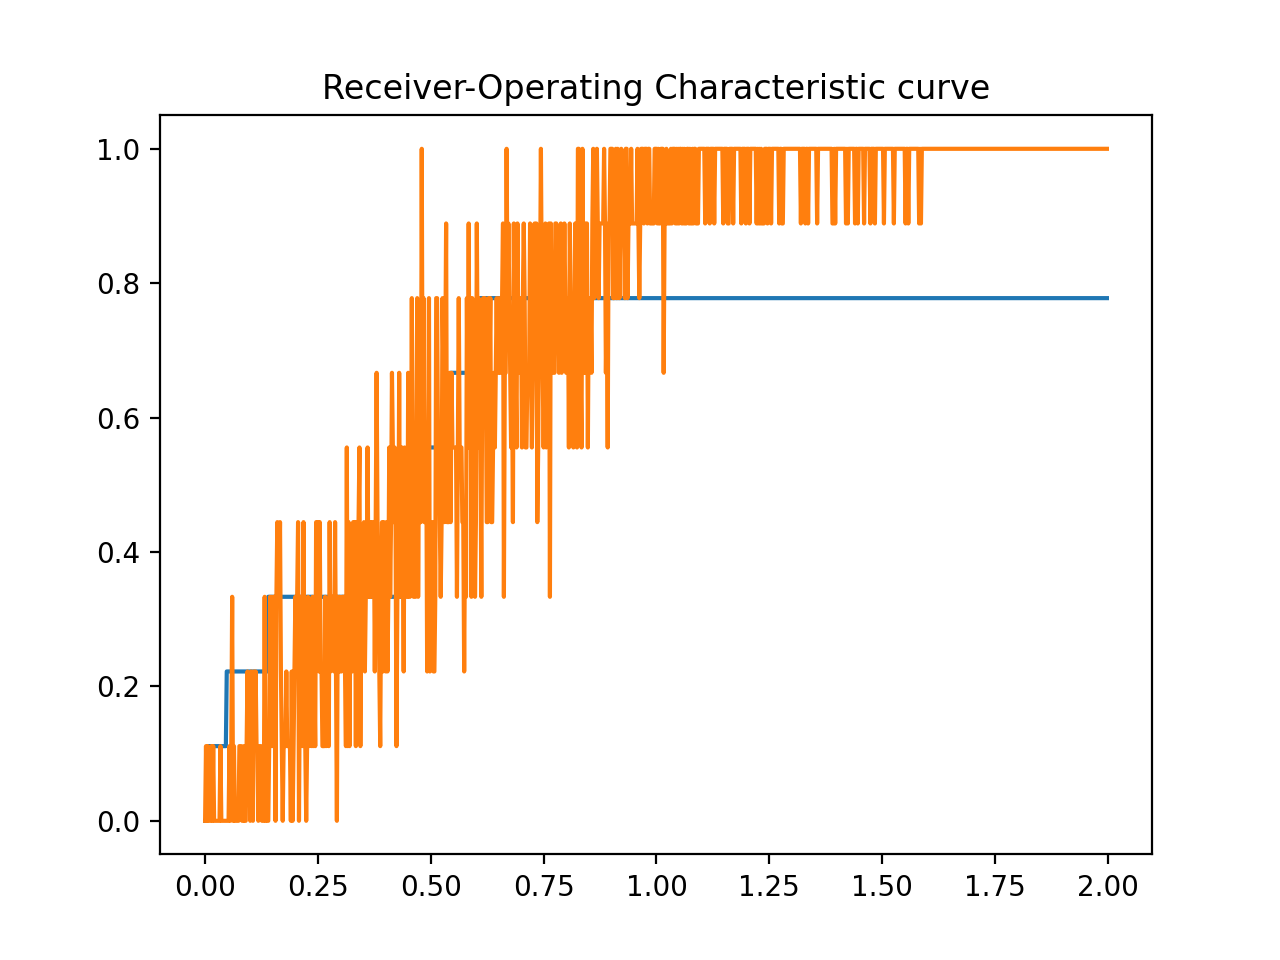
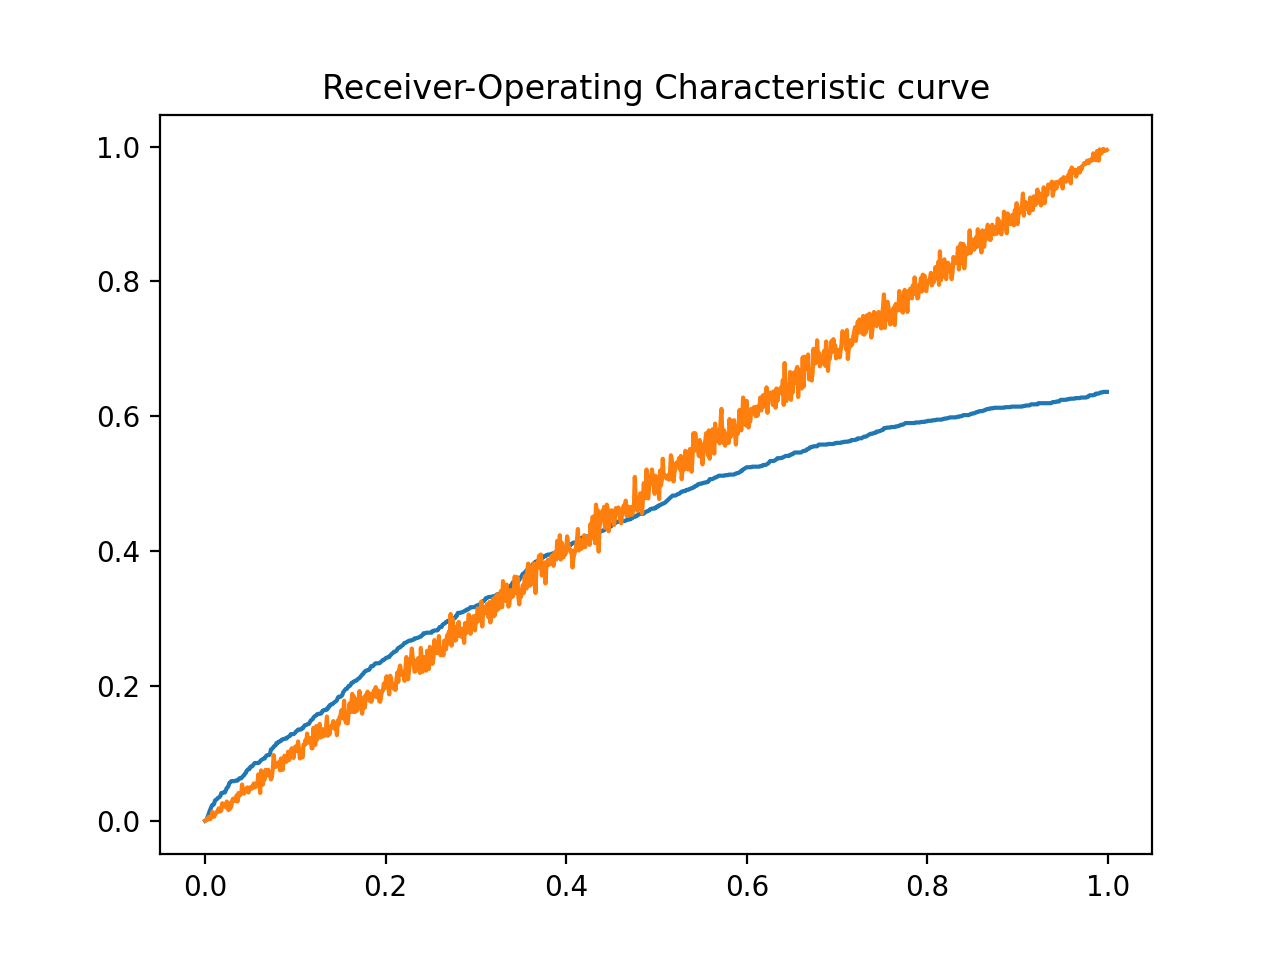
fixed

diff --git a/regression.py b/regression.py
@@ -62,44 +62,62 @@ class LinearRegression(object):
 
 ## read data & choose data
 melbourne_file_path = 'Data/20343.csv'
-melbourne_data = pd.read_csv(melbourne_file_path).loc[lambda x: x['Small Molecule Name'] == 'Abemaciclib'].loc[lambda x: x['Cell Name'] == 'HCC1806']
+melbourne_data = pd.read_csv(melbourne_file_path)
+# melbourne_data = pd.read_csv(melbourne_file_path).loc[lambda x: x['Small Molecule Name'] == 'Abemaciclib'].loc[lambda x: x['Cell Name'] == 'HCC1806']
 feature_array = melbourne_data["Small Mol Concentration (uM)"]
 label_array = melbourne_data["Increased Fraction Dead"]
+# the size of data in a same model
+size = 9
 
-## get feature matrix and label vector
+## get every feature matrix and label vector
 lr = LinearRegression()
-feature = []
-label = []
+features = []
+labels = []
+tmp_i = 0
+tmp_f = []
 for f in feature_array:
-    feature.append(f)
+    tmp_f.append(f)
+    if tmp_i % size == size - 1:
+        mat_f = np.mat(tmp_f).T
+        features.append(mat_f)
+        tmp_f = []
+    tmp_i += 1
+tmp_i = 0
+tmp_l = []
 for l in label_array:
-    label.append(l)
-feature = np.mat(feature).T
-label = np.mat(label).T
+    tmp_l.append(l)
+    if tmp_i % size == size - 1:
+        mat_l = np.mat(tmp_l).T
+        labels.append(mat_l)
+        tmp_l = []
+    tmp_i += 1
 
 ## N-fold cross-validation
 # record the real value and the predictive value
 loss = []
-# divide into n sets
-n = feature.shape[0]
-for i in range(n):
-    # test part
-    test_feature = feature[0]
-    test_label = label[0]
-    # delete the test part then remain the training part
-    feature = np.delete(feature, 0, 0)
-    label = np.delete(label, 0, 0)
+for j in range(len(features)):
+    feature = features[j]
+    label = labels[j]
+    # divide into n sets
+    n = feature.shape[0]
+    for i in range(n):
+        # test part
+        test_feature = feature[0]
+        test_label = label[0]
+        # delete the test part then remain the training part
+        feature = np.delete(feature, 0, 0)
+        label = np.delete(label, 0, 0)
 
-    # train & predict
-    # lr.regress(feature, label)
-    lr.regress(feature, label, 'GD')
-    predict_label = lr.predict(test_feature)
-    loss.append((np.array(test_label)[0][0],np.array(predict_label)[0][0]))
+        # train & predict
+        lr.regress(feature, label)
+        # lr.regress(feature, label, 'GD')
+        predict_label = lr.predict(test_feature)
+        loss.append((np.array(test_label)[0][0],np.array(predict_label)[0][0]))
 
-    # restore
-    lr.clear()
-    feature = np.append(feature, test_feature, 0)
-    label = np.append(label, test_label, 0)
+        # restore
+        lr.clear()
+        feature = np.append(feature, test_feature, 0)
+        label = np.append(label, test_label, 0)
 
 # calculation for Receiver-Operating Characteristic curve
 roc_x = []
@@ -107,7 +125,7 @@ roc_y = []
 roc_y_random = []
 for ii in range(1000):
     # Allowable error range
-    i = 2.0 / 1000 * ii
+    i = 1.0 / 1000 * ii
     # hit rate count
     hit_cnt = 0
     hit_cnt_random = 0
@@ -122,8 +140,8 @@ for ii in range(1000):
             hit_cnt_random += 1
 
     roc_x.append(i)
-    roc_y.append(1.0 * hit_cnt / n)
-    roc_y_random.append(1.0 * hit_cnt_random / n)
+    roc_y.append(1.0 * hit_cnt / len(loss))
+    roc_y_random.append(1.0 * hit_cnt_random / len(loss))
 
 # draw Receiver-Operating Characteristic curve
 plt.title('Receiver-Operating Characteristic curve')

diff --git a/README.md b/README.md
@@ -41,9 +41,9 @@ When $J(\theta)'=0$:
 $$
 \theta = (X^TX)^{-1}X^TY
 $$
-ROC curve：
+ROC：
 
-![ROC](img/ROC.png)
+![ROC](img/ROC_matrix.png)
 
 ### Fitting with Gradient Descent
 
@@ -70,7 +70,8 @@ Repeat until convergence\{\\
 \}
 $$
 
-
 I got a bad curve. Maybe I haven't found the suitable $\alpha$ and the suitable iteration times.
+
+ROC:
 
 ![ROC](img/ROC_GD.png)
